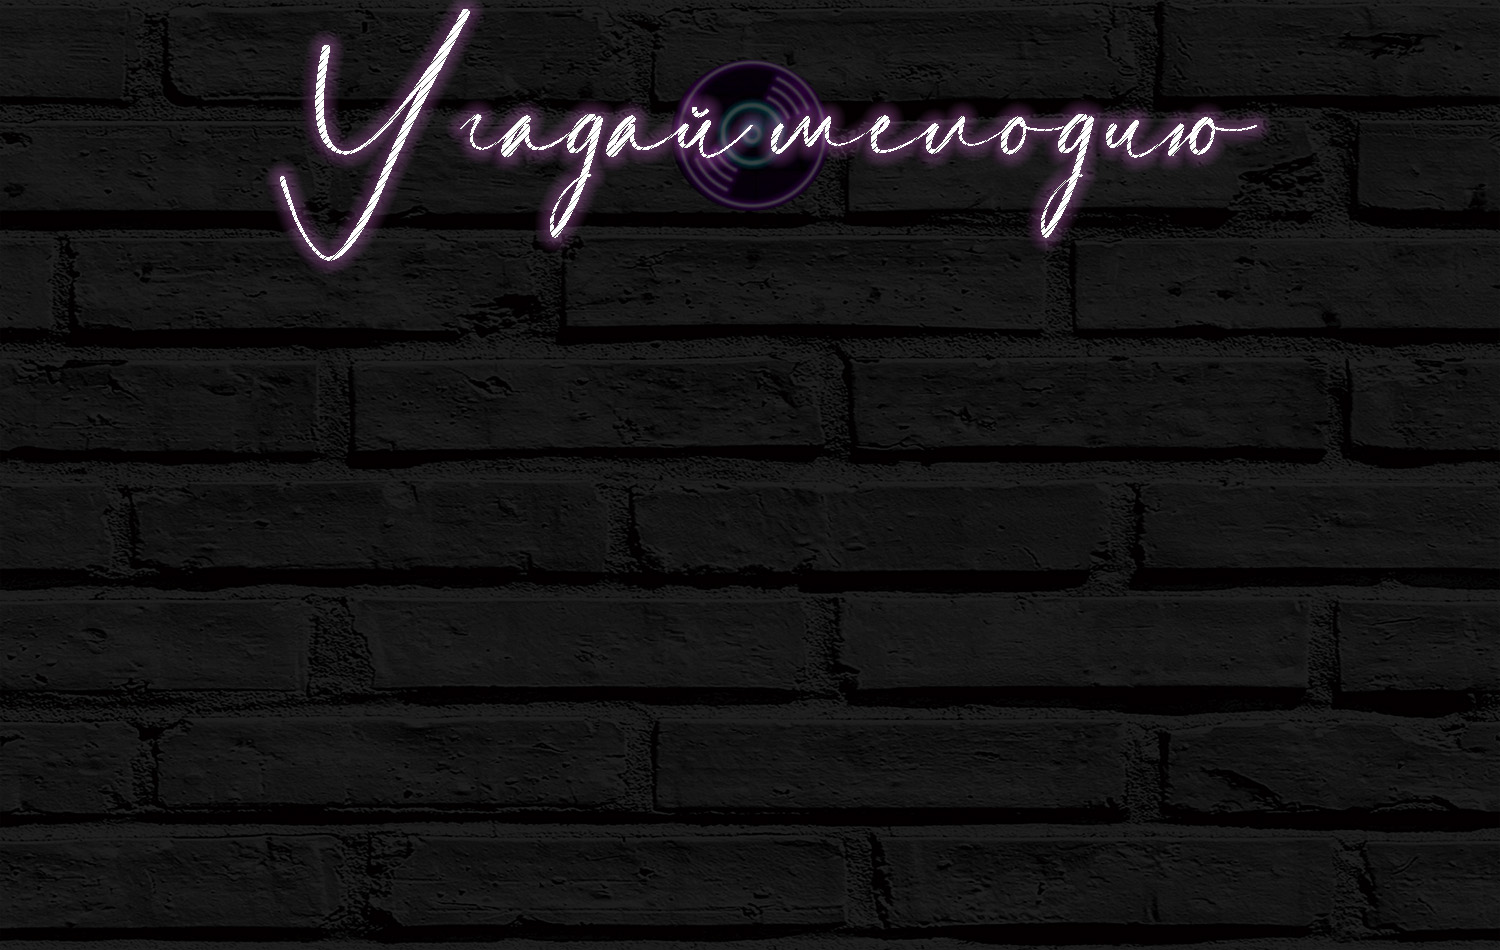
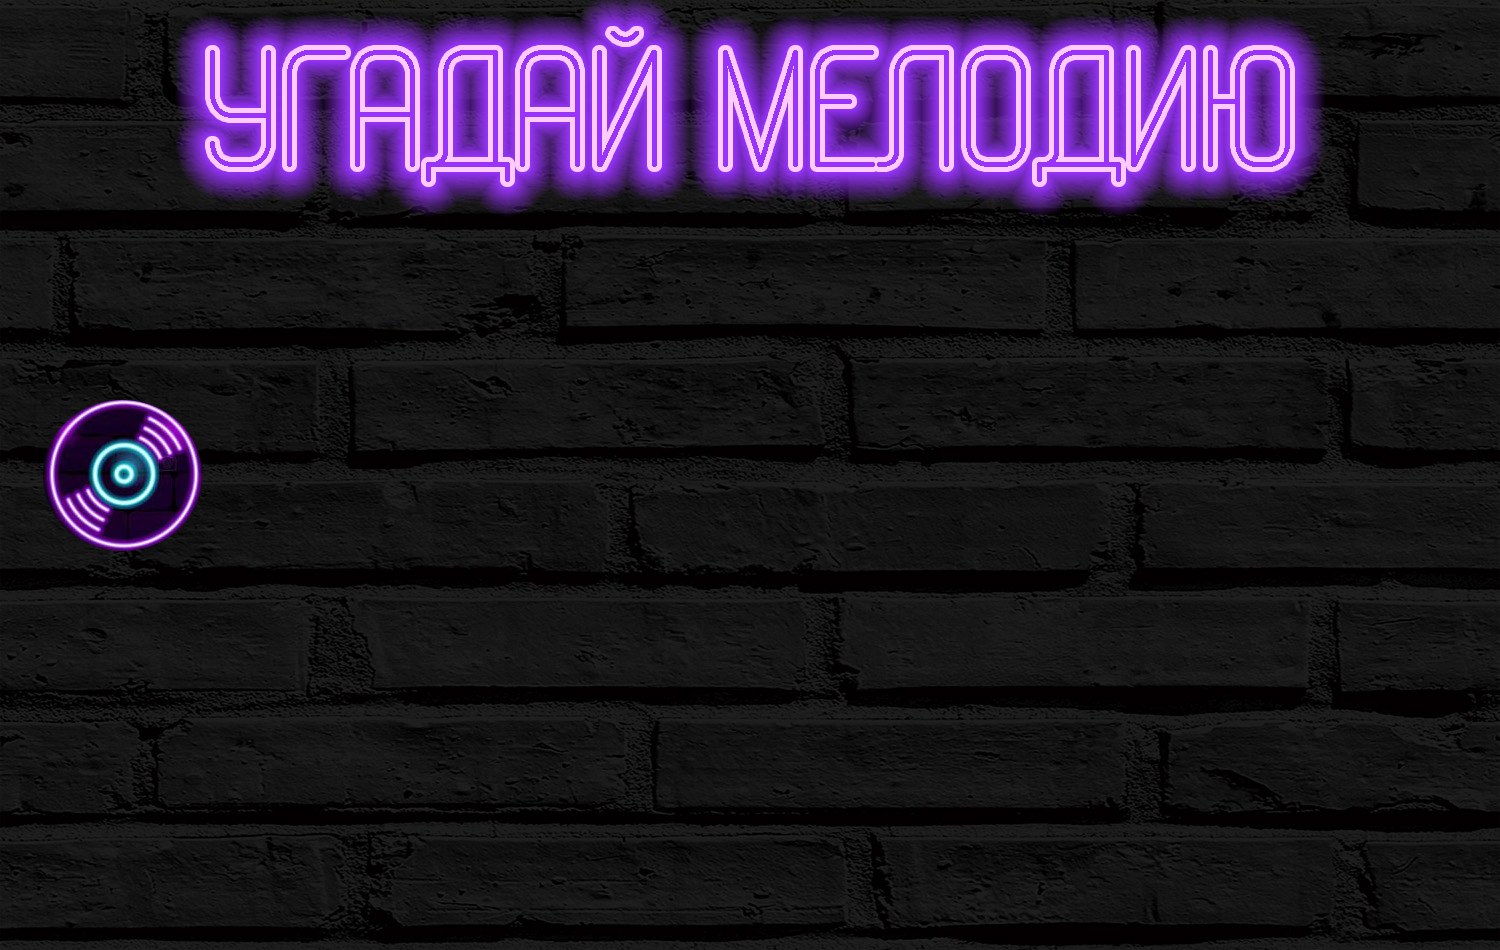
Загрузил новые картинки для задника и кнопок и поставил их

Changed region(s): [[0.092, 0.0, 0.8893, 0.3053], [0.0307, 0.3968, 0.1533, 0.58]]

diff --git a/ArtCritic Desctop/ArtCritic Desctop/MainWindow.xaml b/ArtCritic Desctop/ArtCritic Desctop/MainWindow.xaml
@@ -25,18 +25,18 @@
                 <RowDefinition></RowDefinition>
             </Grid.RowDefinitions>
             <Button x:Name="Game" Content="Игра" Grid.Column="1" Grid.Row="1" 
-                    Click="Game_Click" d:IsHidden="True" ></Button>
+                    Click="Game_Click" d:IsHidden="True" />
 
             <Button x:Name="Settings" Content="Настройки" Grid.Column="1" Grid.Row="3"
-                    Click="Settings_Click" d:IsHidden="True"></Button>
+                    Click="Settings_Click" d:IsHidden="True"/>
 
             <Button x:Name="Statistics" Content="Статистика" Grid.Column="1" Grid.Row="5" 
-                    Click="Satistyc_Click" d:IsHidden="True"></Button>
+                    Click="Satistyc_Click" d:IsHidden="True"/>
 
             <Button x:Name="Exit" Content="Выход" Grid.Column="1" Grid.Row="7" 
-                    Click="Exit_Click" d:IsHidden="True"></Button>
+                    Click="Exit_Click" d:IsHidden="True"/>
 
-            <Button x:Name="Create_Pack_Button" Content="Создать новый пак вопросов" Click="Create_Pack_Button_Click" d:IsHidden="True"></Button>
+            <Button x:Name="Create_Pack_Button" Content="Создать новый пак вопросов" Click="Create_Pack_Button_Click" d:IsHidden="True"/>
 
         </Grid>
 
@@ -138,19 +138,13 @@
         </Grid>
 
 
-        <Grid x:Name="Video_game" ShowGridLines="True" d:IsHidden="True">
-
-            <Image x:Name="Video_Background" Stretch="Fill" Grid.RowSpan="4" />
-
-            <Image x:Name="Accept_Answer_Video" HorizontalAlignment="Left" Margin="647,8,0,0" Grid.Row="3" VerticalAlignment="Top" Height="52" Width="81" MouseLeftButtonDown="Accept_Answer_Video_Click" />
-
-            <TextBox HorizontalAlignment="Center" x:Name="Answer_Video_Texbox"  Grid.Row="3" TextWrapping="Wrap" VerticalAlignment="Top" Width="416" Height="26" Margin="0,21,0,0"/>
-
-            <Image  x:Name="Exit_For_Video" MouseLeftButtonDown="Exit_Click" HorizontalAlignment="Left" Margin="714,15,0,0" VerticalAlignment="Top" Height="45" Width="55"/>
-
-            <MediaElement x:Name="video" Margin="0,32,0,2" Grid.Row="1" />
-
-
+        <Grid x:Name="Video_game" ShowGridLines="True">
+            <Grid.ColumnDefinitions>
+                <ColumnDefinition Width="165*"/>
+                <ColumnDefinition Width="443*"/>
+                <ColumnDefinition Width="102*"/>
+                <ColumnDefinition Width="90*"/>
+            </Grid.ColumnDefinitions>
             <Grid.RowDefinitions>
 
                 <RowDefinition Height="85*"/>
@@ -159,6 +153,17 @@
                 <RowDefinition Height="77*"/>
 
             </Grid.RowDefinitions>
+
+            <Image x:Name="Video_Background" Stretch="Fill" Grid.RowSpan="4" Grid.ColumnSpan="4" />
+
+            <Image x:Name="Accept_Answer_Video" HorizontalAlignment="Left" Margin="12,10,0,0" Grid.Row="3" VerticalAlignment="Top" Height="52" Width="81" MouseLeftButtonDown="Accept_Answer_Video_Click" Grid.Column="2" />
+
+            <TextBox HorizontalAlignment="Center" x:Name="Answer_Video_Texbox"  Grid.Row="3" TextWrapping="Wrap" VerticalAlignment="Top" Width="416" Height="26" Margin="0,13,0,0" Grid.Column="1"/>
+
+            <Image  x:Name="Exit_For_Video" MouseLeftButtonDown="Exit_Click" HorizontalAlignment="Left" Margin="9,15,0,0" VerticalAlignment="Top" Height="49" Width="65" Grid.Column="3"/>
+
+            <MediaElement x:Name="video" Margin="0,32,0,2" Grid.Row="1" Grid.ColumnSpan="4" />
+
 
 
         </Grid>
@@ -167,6 +172,12 @@
 
 
         <Grid x:Name="Image_game" ShowGridLines="True" d:IsHidden="True">
+            <Grid.ColumnDefinitions>
+                <ColumnDefinition Width="165*"/>
+                <ColumnDefinition Width="443*"/>
+                <ColumnDefinition Width="102*"/>
+                <ColumnDefinition Width="90*"/>
+            </Grid.ColumnDefinitions>
             <Grid.RowDefinitions>
 
                 <RowDefinition Height="85*"/>
@@ -176,18 +187,15 @@
 
             </Grid.RowDefinitions>
 
-            <Image Name="Image_Background"  Stretch="Fill" Grid.RowSpan="4" />
+            <Image Name="Image_Background"  Stretch="Fill" Grid.RowSpan="4" Grid.ColumnSpan="4" />
 
+            <TextBox HorizontalAlignment="Center" Name="Answer_Image_Texbox" Grid.Row="3" TextWrapping="Wrap" VerticalAlignment="Top" Width="416" Height="26" Margin="0,13,0,0" Grid.Column="1"/>
 
+            <Image  Name="pice" Margin="0,32,0,2" Grid.Row="1" Grid.ColumnSpan="4" />
 
+            <Image MouseLeftButtonDown="exit_pic_MouseLeftButtonDown"  Name="exit_pic"  HorizontalAlignment="Left" Margin="9,15,0,0" VerticalAlignment="Top" Height="45" Width="55" Grid.Column="3"/>
 
-            <TextBox HorizontalAlignment="Center" Name="Answer_Image_Texbox" Grid.Row="3" TextWrapping="Wrap" VerticalAlignment="Top" Width="416" Height="26" Margin="0,21,0,0"/>
-            <Image Margin="0,32,0,2"  Name="pice" Grid.Row="1"  />
-
-            <Image MouseLeftButtonDown="exit_pic_MouseLeftButtonDown"  Name="exit_pic"  HorizontalAlignment="Left" Height="46" Margin="718,15,0,0" VerticalAlignment="Top"  Width="56"/>
-
-            <Image Name="Accept_Answer_Image" HorizontalAlignment="Left" Margin="647,8,0,0" Grid.Row="3" VerticalAlignment="Top" Height="52" Width="81" MouseLeftButtonDown="Accept_Answer_Image_Click"/>
-
+            <Image Name="Accept_Answer_Image" HorizontalAlignment="Left" Margin="12,10,0,0" Grid.Row="3" VerticalAlignment="Top" Height="52" Width="81" MouseLeftButtonDown="Accept_Answer_Image_Click" Grid.Column="2"/>
 
         </Grid>
 
@@ -235,8 +243,8 @@
             <Image Margin="0,17,0,17"  Name="Image_for_create_Mixed_for_Music" Grid.Row="1"/>
 
         </Grid>
-        
-        
+
+
         <Grid x:Name="Pack_create_Image" ShowGridLines="True" d:IsHidden="True">
             <Grid.RowDefinitions>
 
@@ -260,7 +268,7 @@
         </Grid>
 
 
-        <Grid x:Name="Pack_create_Music" ShowGridLines="True">
+        <Grid x:Name="Pack_create_Music" ShowGridLines="True" d:IsHidden="True">
             <Grid.RowDefinitions>
 
                 <RowDefinition Height="85*"/>

diff --git a/ArtCritic Desctop/ArtCritic Desctop/MainWindow.xaml.cs b/ArtCritic Desctop/ArtCritic Desctop/MainWindow.xaml.cs
@@ -312,21 +312,21 @@ namespace ArtCritic_Desctop
 
             Back_Ground = new BitmapImage();
             Back_Ground.BeginInit();
-            string Background_Image_Path = System.IO.Path.GetFullPath(@"..\..\..\source_2.0\guess_film.jpg");
+            string Background_Image_Path = System.IO.Path.GetFullPath(@"..\..\..\wallpapers__for_menu_music_pictures\guess_film.jpg");
             Back_Ground.UriSource = new Uri(Background_Image_Path, UriKind.RelativeOrAbsolute);
             Back_Ground.EndInit();
             Video_Background.Source = Back_Ground;
 
             Exit_Button = new BitmapImage();
             Exit_Button.BeginInit();
-            string Exit_Button_Image_Path = System.IO.Path.GetFullPath(@"..\..\..\source_2.0\exit.png");
+            string Exit_Button_Image_Path = System.IO.Path.GetFullPath(@"..\..\..\Buttons\button_exit_game.png");
             Exit_Button.UriSource = new Uri(Exit_Button_Image_Path, UriKind.RelativeOrAbsolute);
             Exit_Button.EndInit();
             Exit_For_Video.Source = Exit_Button;
 
             Check_Button = new BitmapImage();
             Check_Button.BeginInit();
-            string Check_Button_Image_Path = System.IO.Path.GetFullPath(@"..\..\..\source_2.0\check.png");
+            string Check_Button_Image_Path = System.IO.Path.GetFullPath(@"..\..\..\Buttons\button_next.png");
             Check_Button.UriSource = new Uri(Check_Button_Image_Path, UriKind.RelativeOrAbsolute);
             Check_Button.EndInit();
             Accept_Answer_Video.Source = Check_Button;
@@ -352,23 +352,21 @@ namespace ArtCritic_Desctop
 
             Back_Ground = new BitmapImage();
             Back_Ground.BeginInit();
-            string Background_Image_Path = System.IO.Path.GetFullPath(@"..\..\..\source_2.0\guess_picture.jpg");
+            string Background_Image_Path = System.IO.Path.GetFullPath(@"..\..\..\wallpapers__for_menu_music_pictures\guess_picture.jpg");
             Back_Ground.UriSource = new Uri(Background_Image_Path, UriKind.RelativeOrAbsolute);
             Back_Ground.EndInit();
             Image_Background.Source = Back_Ground;
 
-
-
             Exit_Button = new BitmapImage();
             Exit_Button.BeginInit();
-            string Exit_Button_Image_Path = System.IO.Path.GetFullPath(@"..\..\..\source_2.0\exit.png");
+            string Exit_Button_Image_Path = System.IO.Path.GetFullPath(@"..\..\..\Buttons\button_exit_game.png");
             Exit_Button.UriSource = new Uri(Exit_Button_Image_Path, UriKind.RelativeOrAbsolute);
             Exit_Button.EndInit();
             exit_pic.Source = Exit_Button;
 
             Check_Button = new BitmapImage();
             Check_Button.BeginInit();
-            string Check_Button_Image_Path = System.IO.Path.GetFullPath(@"..\..\..\source_2.0\check.png");
+            string Check_Button_Image_Path = System.IO.Path.GetFullPath(@"..\..\..\Buttons\button_next.png");
             Check_Button.UriSource = new Uri(Check_Button_Image_Path, UriKind.RelativeOrAbsolute);
             Check_Button.EndInit();
             Accept_Answer_Image.Source = Check_Button;
